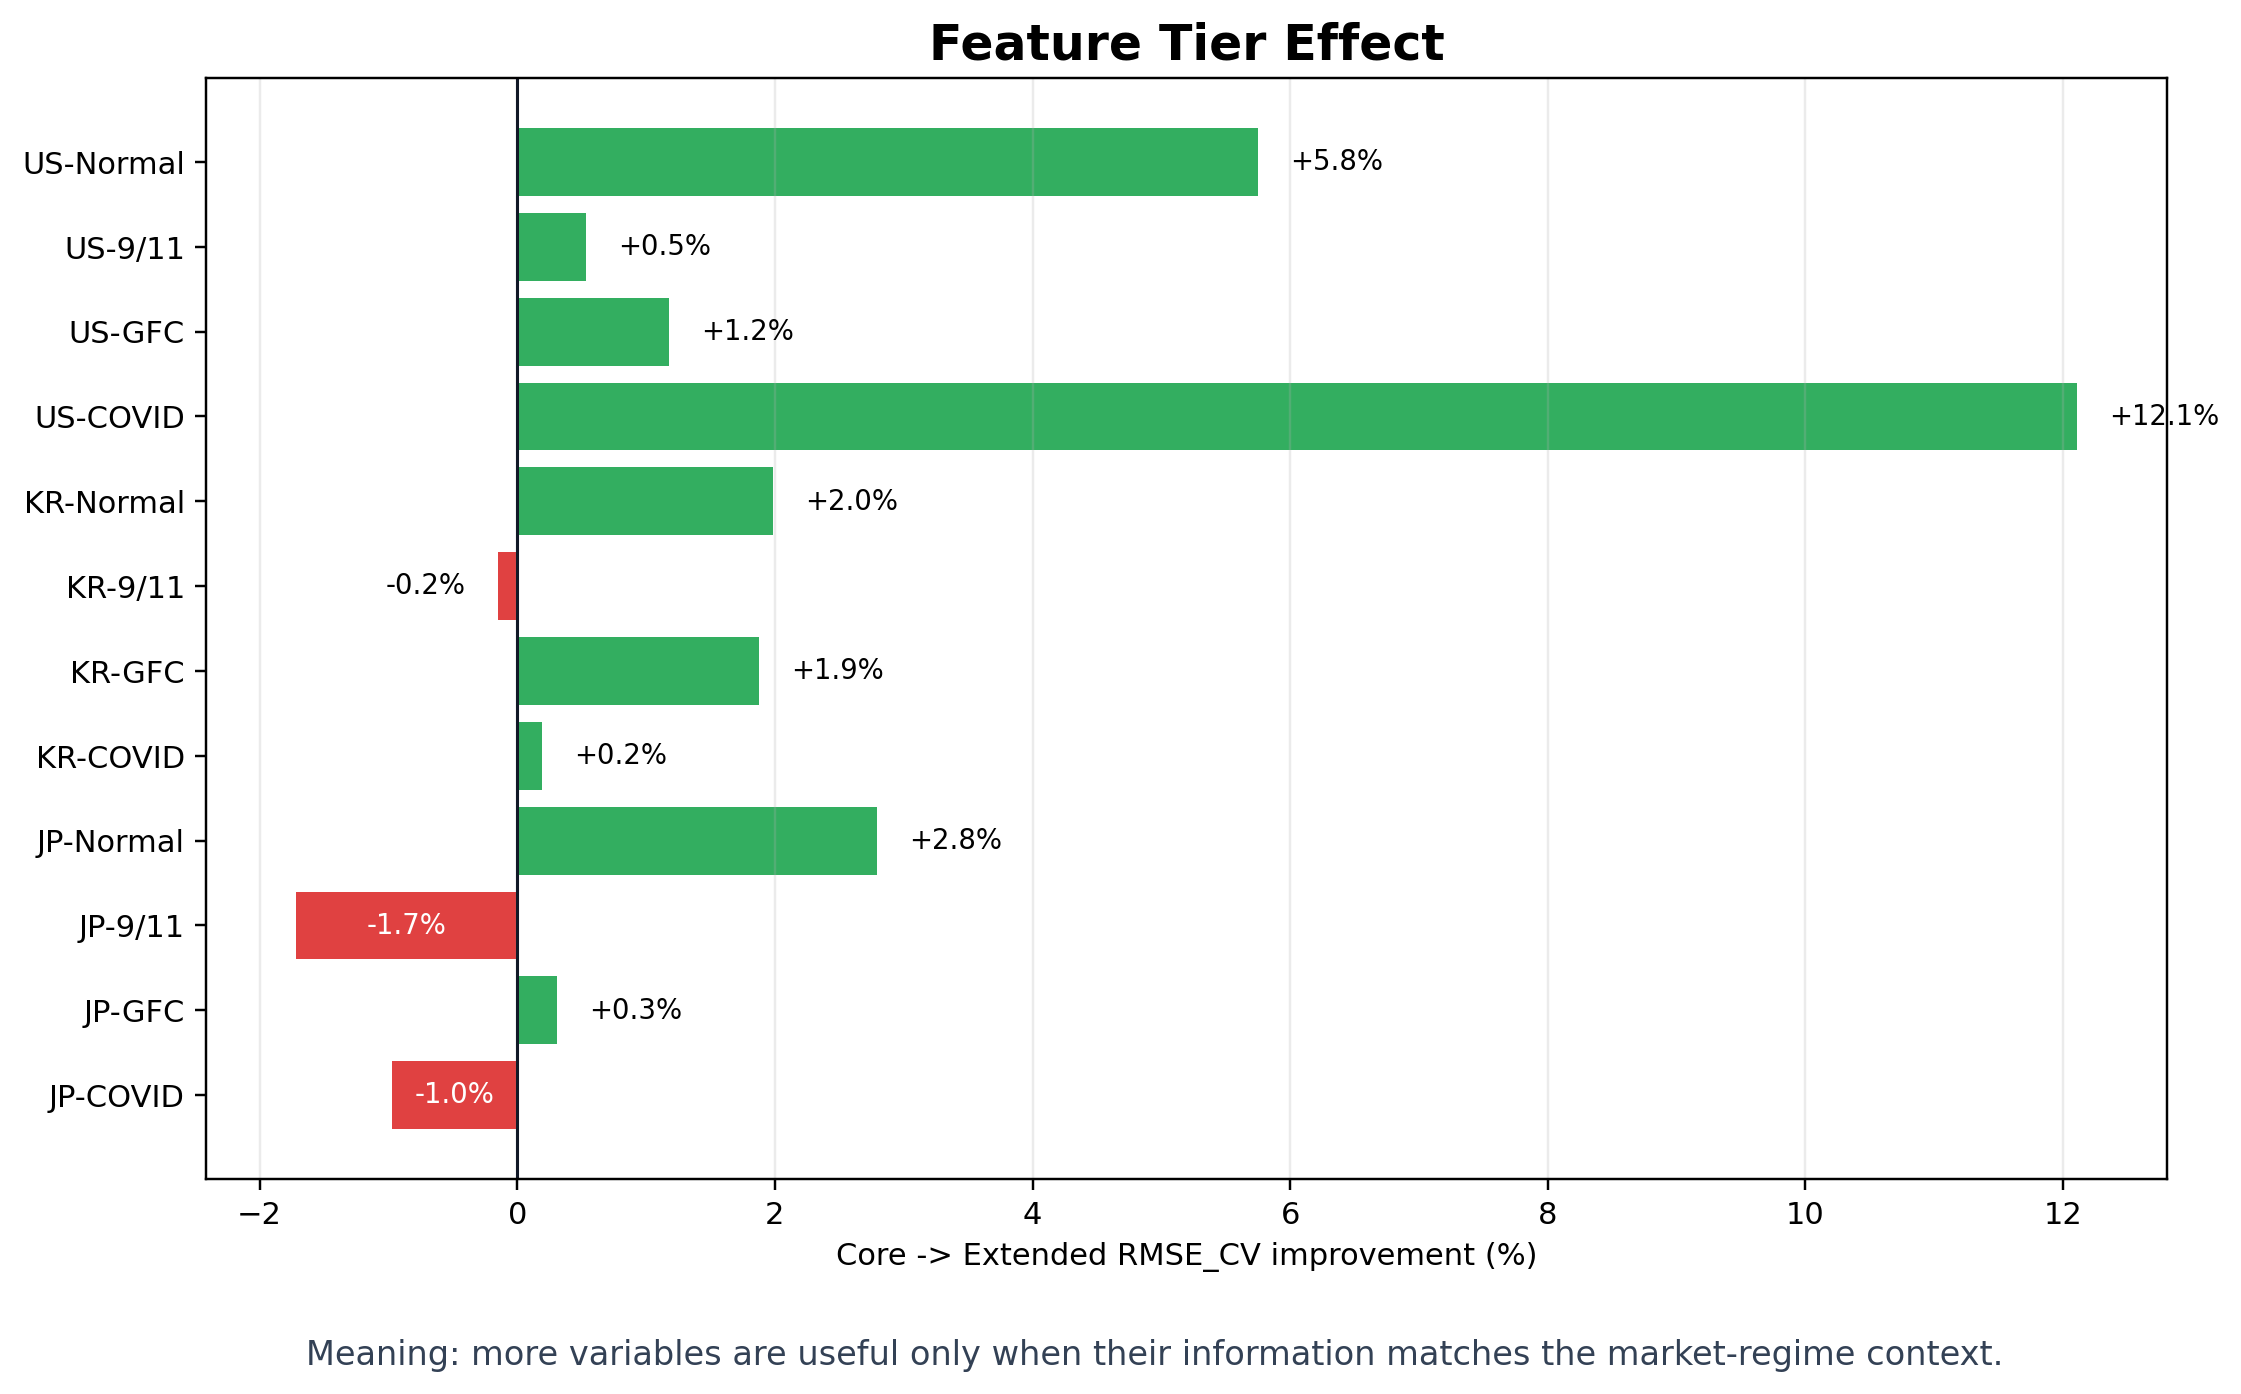
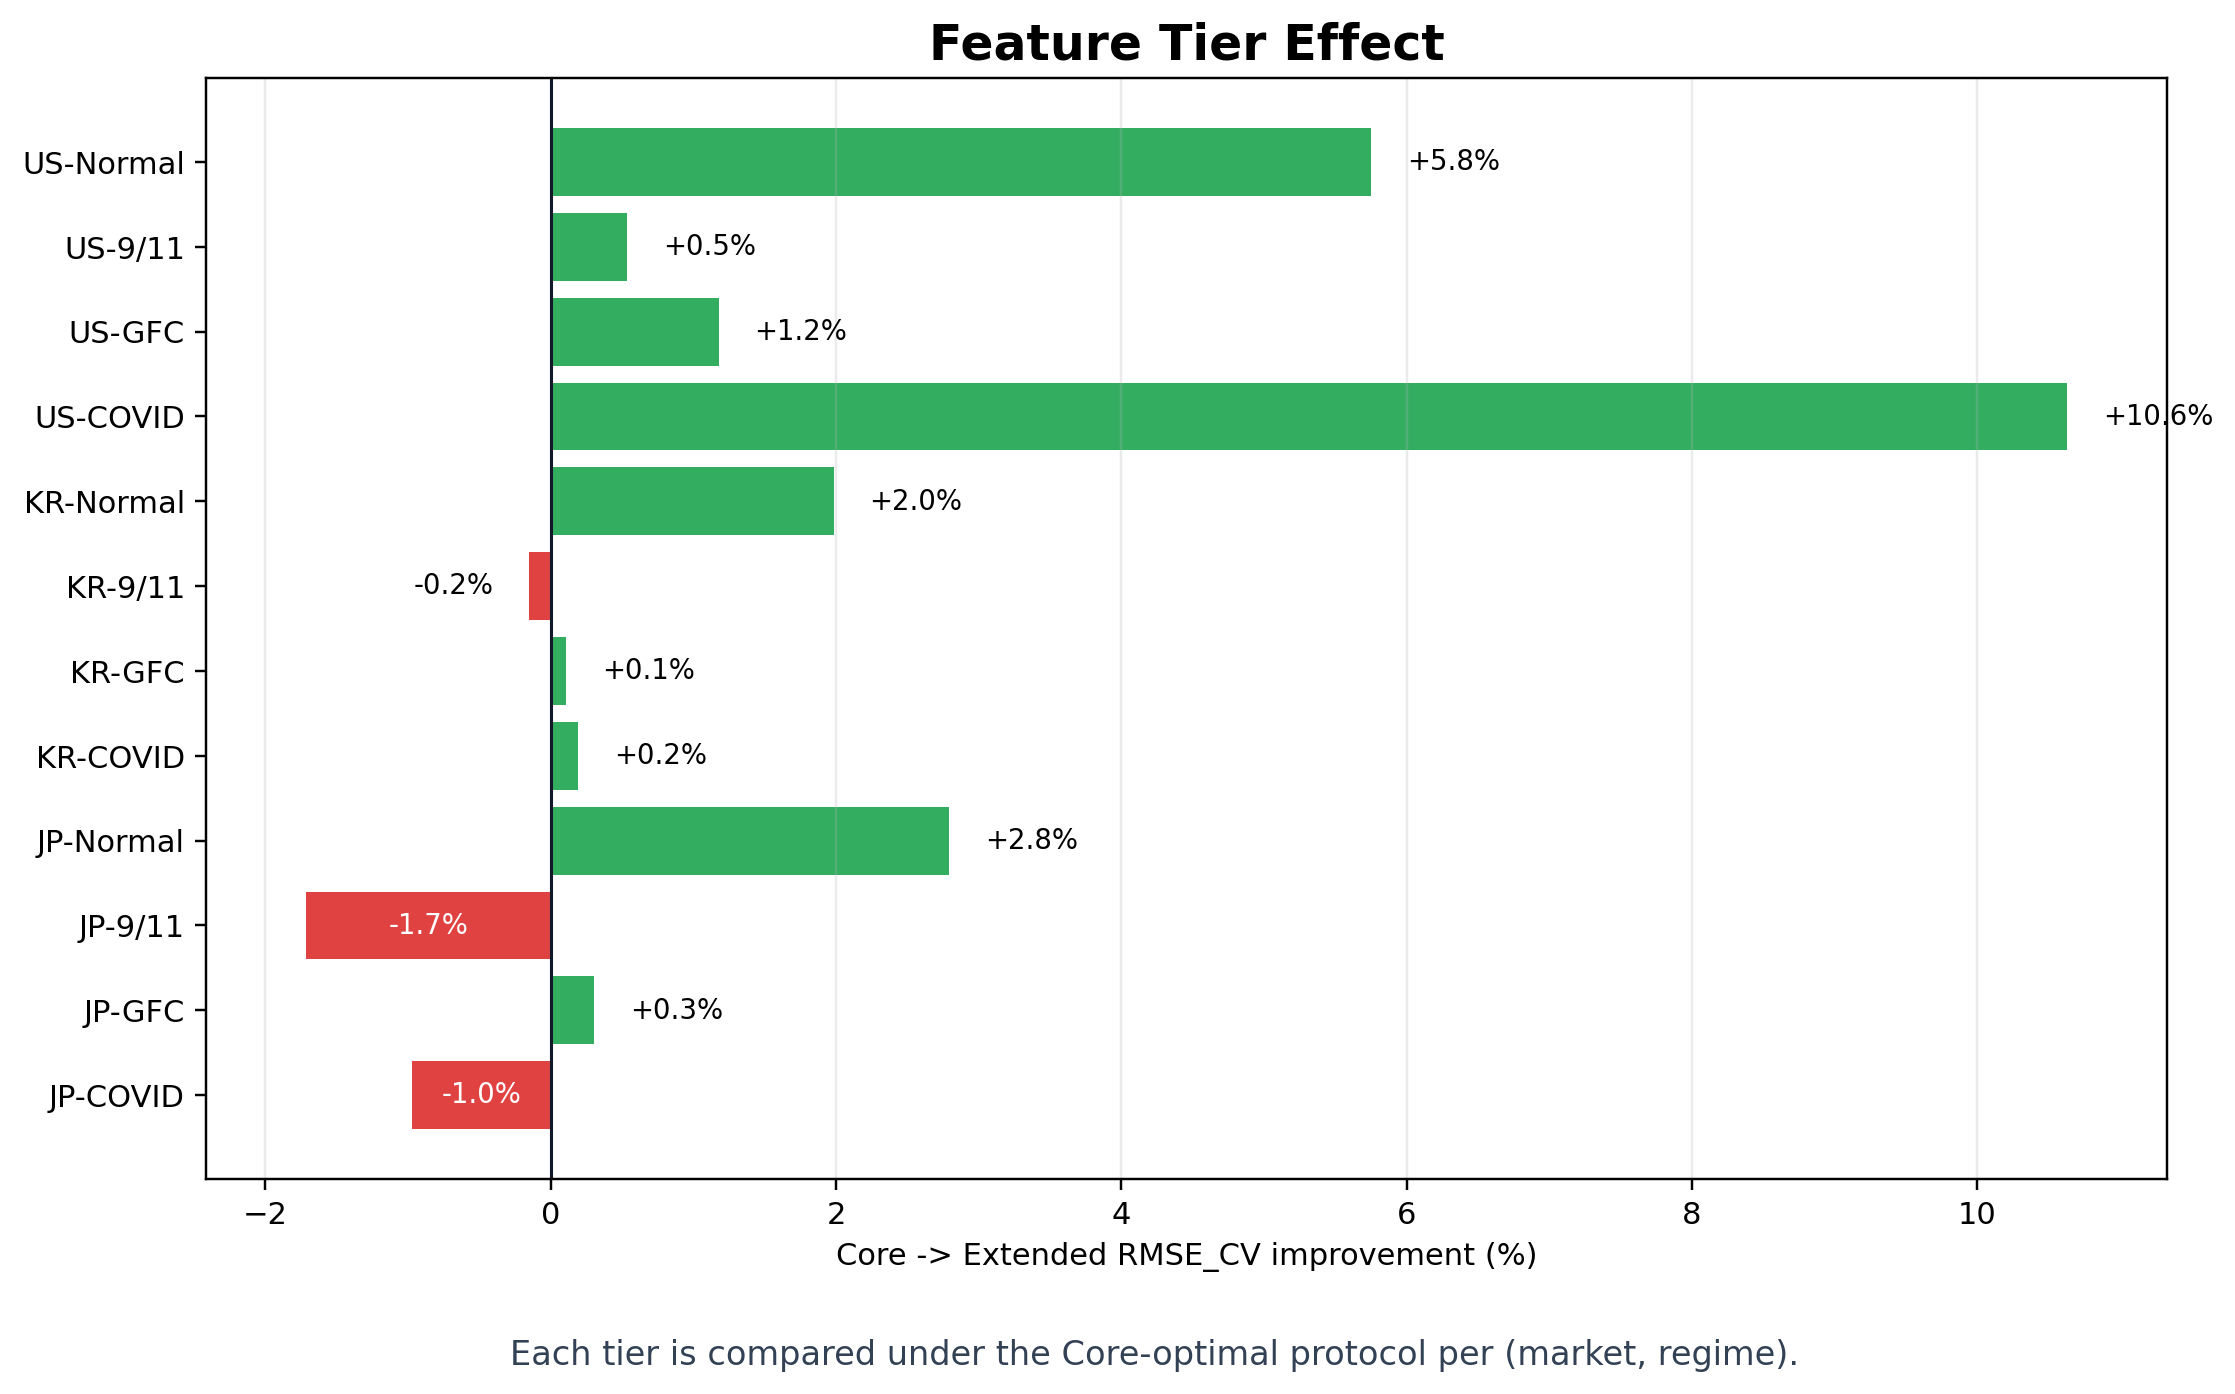
Feature Tier Effect: protocol 통제 패치
각 (country, regime) 셀에서 Core tier 최저 RMSE_CV protocol을 락하여
모든 tier(core/momentum/extended)가 같은 protocol로 비교되도록 수정.
tier 효과와 protocol 효과의 교란(apples-to-oranges) 제거.

검증: US/COVID core->ext 개선율 12.11% -> 10.63%,
      KR/GFC 1.88% -> 0.11%. 나머지 10셀은 변화 없음.

- make_result_visualizations.py: make_feature_tier_effect에 protocol-lock 블록 추가
- _audit_tier_lock_diff.py: before/after 비교 스크립트 (신규)
- outputs/04_feature_tier_effect.png: 캡션과 수치 갱신
- summary_tables/feature_tier_effect.csv: 락 적용된 값으로 갱신
- summary_tables/feature_tier_effect_locked_protocol.csv: 셀별 락 protocol 기록 (신규)
- summary_tables/feature_tier_lock_diff.csv: 12셀 before/after 진단 (신규)

diff --git a/중간발표/result_visualizations/_audit_tier_lock_diff.py b/중간발표/result_visualizations/_audit_tier_lock_diff.py
@@ -1,0 +1,177 @@
+"""One-shot audit: Feature Tier Effect — before vs after protocol-locking.
+
+Compares the original best_by(full, [country, regime, feature_set]) with the
+protocol-locked version (Core's best protocol is fixed per (country, regime)
+and all tiers must use that protocol).
+
+Output:
+  summary_tables/feature_tier_lock_diff.csv
+
+US/COVID row should show core_to_ext_after_% ~= 10.6 (down from ~12.1) to
+confirm the patch.
+"""
+
+from __future__ import annotations
+
+from pathlib import Path
+
+import pandas as pd
+
+
+SCRIPT_DIR = Path(__file__).resolve().parent
+REPO_ROOT = SCRIPT_DIR.parents[1]
+SUMMARY_DIR = SCRIPT_DIR / "summary_tables"
+SUMMARY_DIR.mkdir(parents=True, exist_ok=True)
+
+
+def find_results_dir() -> Path:
+    for candidate in [REPO_ROOT, REPO_ROOT / "Project"]:
+        results_dir = candidate / "results"
+        if (results_dir / "ml_results_core.csv").exists():
+            return results_dir
+    raise FileNotFoundError("Could not locate FINTEL results directory.")
+
+
+def best_by(df: pd.DataFrame, keys: list[str]) -> pd.DataFrame:
+    idx = df.groupby(keys, dropna=False)["RMSE_CV"].idxmin()
+    return df.loc[idx].copy()
+
+
+def main() -> None:
+    results_dir = find_results_dir()
+    frames = []
+    for tier in ["core", "momentum", "extended"]:
+        frame = pd.read_csv(results_dir / f"ml_results_{tier}.csv")
+        if "feature_set" not in frame.columns:
+            frame["feature_set"] = tier
+        frames.append(frame)
+    ml = pd.concat(frames, ignore_index=True)
+    full = ml[ml["phase"] == "Full Test"].copy()
+
+    # --- Before: free protocol per (country, regime, feature_set) ---
+    before = (
+        best_by(full, ["country", "regime", "feature_set"])
+        .pivot_table(
+            index=["country", "regime"],
+            columns="feature_set",
+            values="RMSE_CV",
+            aggfunc="min",
+        )
+        .add_suffix("_before")
+    )
+
+    # --- After: protocol locked to Core's best protocol per (country, regime) ---
+    core = full[full["feature_set"] == "core"].copy()
+    core_winner_idx = core.groupby(["country", "regime"])["RMSE_CV"].idxmin()
+    locked = (
+        core.loc[core_winner_idx, ["country", "regime", "protocol"]]
+            .rename(columns={"protocol": "locked_protocol"})
+    )
+    full_locked = (
+        full.merge(locked, on=["country", "regime"])
+            .query("protocol == locked_protocol")
+            .drop(columns=["locked_protocol"])
+    )
+    after = (
+        best_by(full_locked, ["country", "regime", "feature_set"])
+        .pivot_table(
+            index=["country", "regime"],
+            columns="feature_set",
+            values="RMSE_CV",
+            aggfunc="min",
+        )
+        .add_suffix("_after")
+    )
+
+    # Also capture best-model identity per cell (before/after) for sanity check
+    best_before = (
+        best_by(full, ["country", "regime", "feature_set"])
+        [["country", "regime", "feature_set", "model", "protocol"]]
+    )
+    bm_before = best_before.pivot_table(
+        index=["country", "regime"],
+        columns="feature_set",
+        values="model",
+        aggfunc="first",
+    ).add_suffix("_model_before")
+    bp_before = best_before.pivot_table(
+        index=["country", "regime"],
+        columns="feature_set",
+        values="protocol",
+        aggfunc="first",
+    ).add_suffix("_protocol_before")
+
+    best_after = (
+        best_by(full_locked, ["country", "regime", "feature_set"])
+        [["country", "regime", "feature_set", "model", "protocol"]]
+    )
+    bm_after = best_after.pivot_table(
+        index=["country", "regime"],
+        columns="feature_set",
+        values="model",
+        aggfunc="first",
+    ).add_suffix("_model_after")
+
+    diff = (
+        before.join(after, how="outer")
+              .join(locked.set_index(["country", "regime"]))
+              .join(bm_before, how="left")
+              .join(bp_before, how="left")
+              .join(bm_after, how="left")
+    )
+    diff["core_to_ext_before_%"] = (
+        (diff["core_before"] - diff["extended_before"]) / diff["core_before"] * 100
+    )
+    diff["core_to_ext_after_%"] = (
+        (diff["core_after"] - diff["extended_after"]) / diff["core_after"] * 100
+    )
+    diff["core_to_mom_before_%"] = (
+        (diff["core_before"] - diff["momentum_before"]) / diff["core_before"] * 100
+    )
+    diff["core_to_mom_after_%"] = (
+        (diff["core_after"] - diff["momentum_after"]) / diff["core_after"] * 100
+    )
+
+    # Order rows for readability
+    country_order = {"US": 0, "KR": 1, "JP": 2}
+    regime_order = {"normal": 0, "911": 1, "gfc": 2, "covid": 3}
+    diff = diff.reset_index()
+    diff["_co"] = diff["country"].map(country_order)
+    diff["_ro"] = diff["regime"].map(regime_order)
+    diff = (
+        diff.sort_values(["_co", "_ro"])
+            .drop(columns=["_co", "_ro"])
+            .set_index(["country", "regime"])
+    )
+
+    out = SUMMARY_DIR / "feature_tier_lock_diff.csv"
+    diff.round(4).to_csv(out, encoding="utf-8-sig")
+    print(f"[ok] Wrote: {out}")
+    print()
+
+    cols_to_show = [
+        "core_before", "core_after",
+        "extended_before", "extended_after",
+        "locked_protocol",
+        "core_to_ext_before_%", "core_to_ext_after_%",
+    ]
+    print(diff[cols_to_show].round(4).to_string())
+    print()
+
+    # Sanity checks
+    core_eq = (diff["core_before"].round(6) == diff["core_after"].round(6)).all()
+    print(f"[check] core_before == core_after for every cell? {core_eq}")
+    monotone = (
+        diff["extended_after"].fillna(diff["extended_before"])
+        >= diff["extended_before"] - 1e-9
+    ).all()
+    print(f"[check] extended_after >= extended_before for every cell? {monotone}")
+    us_covid = diff.loc[("US", "covid")]
+    print(
+        f"[check] US/COVID core_to_ext: "
+        f"{us_covid['core_to_ext_before_%']:.2f}% -> {us_covid['core_to_ext_after_%']:.2f}%"
+    )
+
+
+if __name__ == "__main__":
+    main()

diff --git a/중간발표/result_visualizations/make_result_visualizations.py b/중간발표/result_visualizations/make_result_visualizations.py
@@ -296,7 +296,27 @@ def make_best_model_matrix(all_results: pd.DataFrame) -> None:
 
 def make_feature_tier_effect(ml: pd.DataFrame) -> None:
     full = full_test(ml)
-    best_tier = best_by(full, ["country", "regime", "feature_set"])
+
+    # --- Lock protocol per (country, regime) to the one where Core achieves min RMSE_CV.
+    # This isolates the pure tier effect from the protocol effect (apples-to-apples).
+    core = full[full["feature_set"] == "core"].copy()
+    core_winner_idx = core.groupby(["country", "regime"])["RMSE_CV"].idxmin()
+    locked = (
+        core.loc[core_winner_idx, ["country", "regime", "protocol"]]
+            .rename(columns={"protocol": "locked_protocol"})
+    )
+    full_locked = (
+        full.merge(locked, on=["country", "regime"])
+            .query("protocol == locked_protocol")
+            .drop(columns=["locked_protocol"])
+    )
+    locked.to_csv(
+        SUMMARY_DIR / "feature_tier_effect_locked_protocol.csv",
+        index=False, encoding="utf-8-sig",
+    )
+    # ---
+
+    best_tier = best_by(full_locked, ["country", "regime", "feature_set"])
     pivot = best_tier.pivot_table(
         index=["country", "regime"],
         columns="feature_set",
@@ -349,7 +369,7 @@ def make_feature_tier_effect(ml: pd.DataFrame) -> None:
     fig.text(
         0.5,
         -0.02,
-        "Meaning: more variables are useful only when their information matches the market-regime context.",
+        "Each tier is compared under the Core-optimal protocol per (market, regime).",
         ha="center",
         fontsize=11,
         color="#334155",